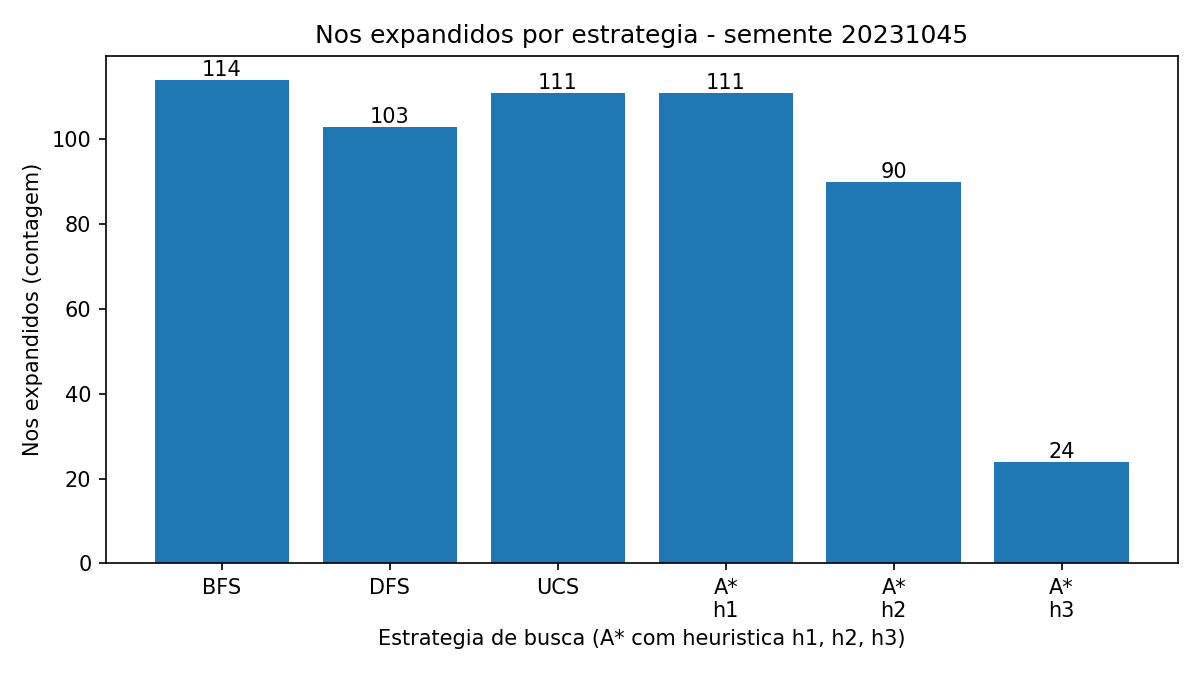
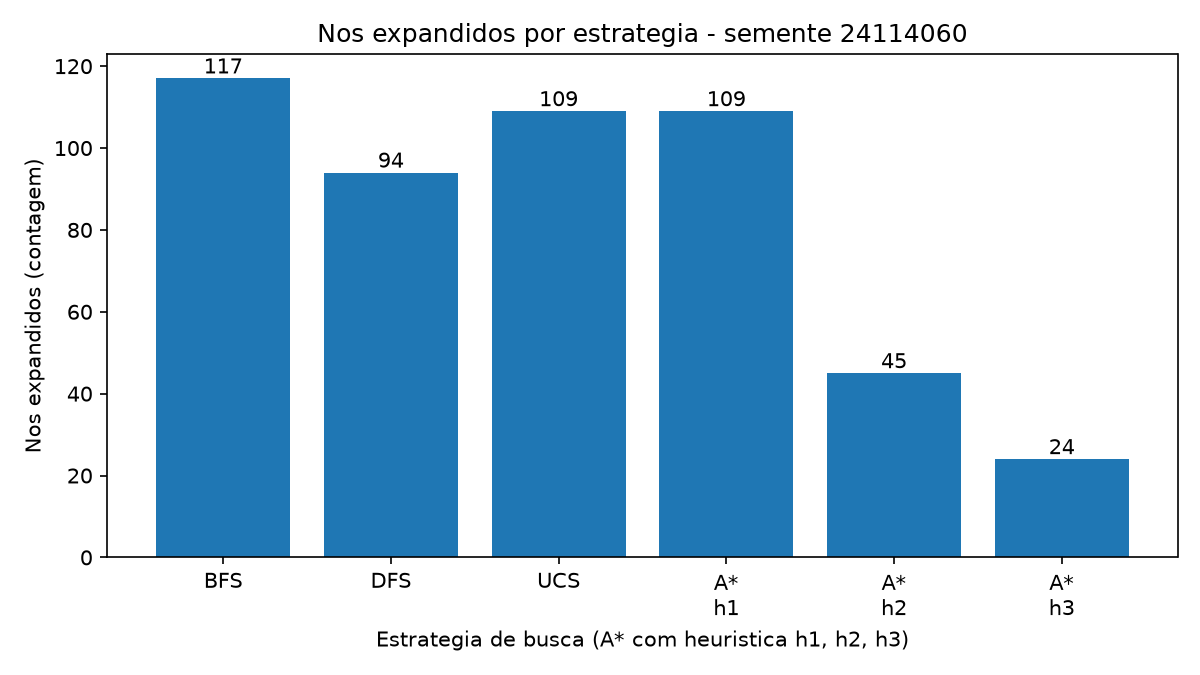
atualiza README, RELATORIO e resultados com a matricula 24114060

diff --git a/README.md b/README.md
@@ -3,11 +3,11 @@
 ## 1. Identificação
 
 - **Disciplina:** Inteligência Artificial — UniRios — 2026.2 (Prof. Ronierison Maciel)
-- **Integrante 1:** `[NOME COMPLETO]` — matrícula `[MATRÍCULA]`
-- **Integrante 2:** `[NOME COMPLETO]` — matrícula `[MATRÍCULA]`
+- **Integrante 1:** `[Vitor da Silva Pereira]` — matrícula `[24114060]`
+- **Integrante 2:** `[Emylly Vitória Pereira de Sousa Silva]` — matrícula `[MATRÍCULA]`
 - **Matrícula usada como semente (integrante mais velho):** `[MATRÍCULA]`
 
-> ⚠ Os números deste repositório vieram da matrícula fictícia **20231045** (a do enunciado). Antes de entregar: rode `python src/main.py <sua matrícula>` e `python src/escala.py <sua matrícula>`, atualize o `RELATORIO.md` com os números de `resultados/saida.txt`, cole a tabela abaixo e faça commit.
+> ⚠ Os números vêm de `python src/main.py 24114060`. Falta rodar `python src/escala.py 24114060` neste computador e preencher a seção 2.4 do `RELATORIO.md`.
 
 ## 2. O que este projeto faz
 
@@ -24,16 +24,16 @@ python src/escala.py <matricula>     # Parte 2.4 (demora alguns minutos; usa mui
 python src/teste_afericao.py         # confere a caixa de aferição do enunciado
 ```
 
-## 4. Tabela-resumo dos resultados (semente 20231045)
+## 4. Tabela-resumo dos resultados (semente 24114060)
 
 | Estratégia | Heurística | Custo da rota (un.) | Passos (nº) | Nós expandidos (nº) | Fronteira máx. (nós) |
 |---|---|---:|---:|---:|---:|
-| BFS | - | 55 | 22 | 114 | 13 |
-| DFS | - | 84 | 36 | 103 | 60 |
-| UCS | - | 34 | 22 | 111 | 23 |
-| A\* | h1 (=0) | 34 | 22 | 111 | 23 |
-| A\* | h2 (Manhattan) | 34 | 22 | 90 | 22 |
-| A\* | h3 (4×Manhattan) | 34 | 22 | 24 | 20 |
+| BFS | - | 46 | 22 | 117 | 11 |
+| DFS | - | 113 | 62 | 94 | 67 |
+| UCS | - | 27 | 24 | 109 | 14 |
+| A\* | h1 (=0) | 27 | 24 | 109 | 14 |
+| A\* | h2 (Manhattan) | 27 | 24 | 45 | 24 |
+| A\* | h3 (4×Manhattan) | 28 | 22 | 24 | 24 |
 
 ## 5. Decisões declaradas
 
